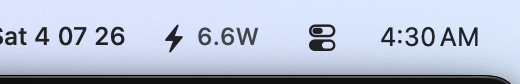
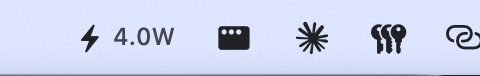
docs: real Liquid Glass screenshots replace flat renders

diff --git a/README.md b/README.md
@@ -12,16 +12,13 @@
 </p>
 
 <p align="center">
-  <img src="docs/images/menubar.png" width="260" alt="Menu bar: bolt icon with live watts">
+  <img src="docs/images/menubar.png" width="240" alt="Menu bar: bolt icon with live watts">
 </p>
 
 <p align="center">
-  <picture>
-    <source media="(prefers-color-scheme: dark)" srcset="docs/images/popover-dark.png">
-    <img src="docs/images/popover-light.png" width="360" alt="MacJuice panel">
-  </picture>
+  <img src="docs/images/panel.png" width="420" alt="MacJuice Liquid Glass panel under the menu bar, content refracting through the glass">
   <br>
-  <sub>(flat renders — on macOS 26+ the panel is real Liquid Glass, refracting whatever is behind it)</sub>
+  <sub>Real screenshot — the panel is Liquid Glass on macOS 26+, refracting whatever is behind it.</sub>
 </p>
 
 ## What you see